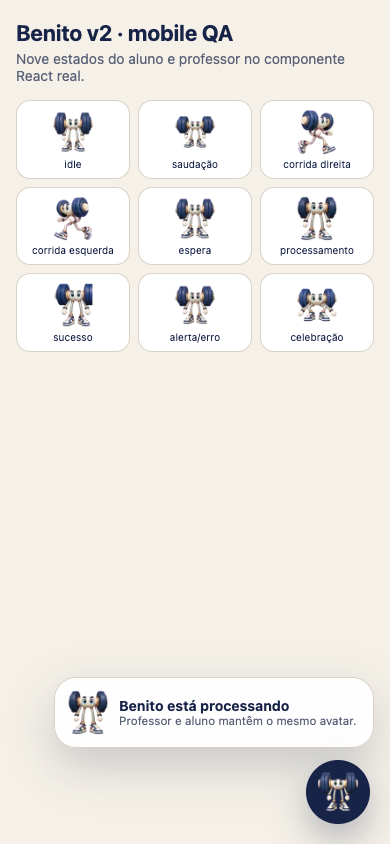
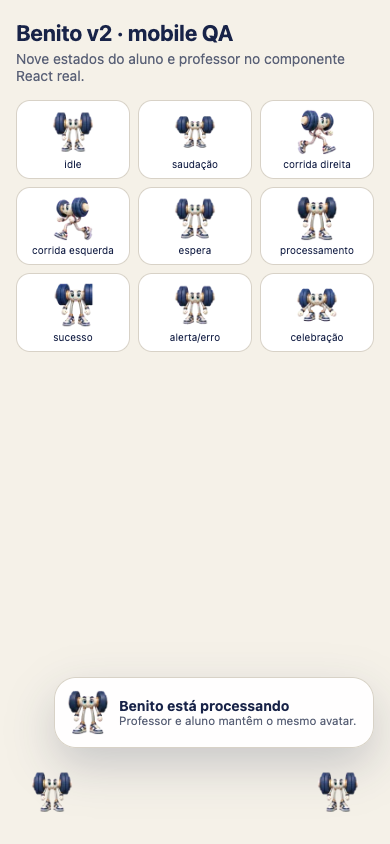
fix(benito): remove visible assistant chrome

Changed region(s): [[0.7692, 0.8934, 0.9538, 1.0], [0.0615, 0.8934, 0.1846, 0.9858]]

diff --git a/src/components/StudentBnitoAssistant.tsx b/src/components/StudentBnitoAssistant.tsx
@@ -436,6 +436,7 @@ export function StudentBnitoAssistantProvider({ children }: { children: ReactNod
             <TooltipTrigger asChild>
               <button
                 type="button"
+                data-benito-fab="student"
                 aria-label={`Abrir ${name}`}
                 style={{ transform: `translate(${bnitoDrag.x}px, ${bnitoDrag.y}px)`, touchAction: "none" }}
                 onPointerDown={(e) => {
@@ -494,11 +495,9 @@ export function StudentBnitoAssistantProvider({ children }: { children: ReactNod
                   setDragDirection(null);
                 }}
                 onLostPointerCapture={() => setDragDirection(null)}
-                className="fixed bottom-[calc(6rem+env(safe-area-inset-bottom,0px))] right-[calc(1.25rem+env(safe-area-inset-right,0px))] z-40 flex h-16 w-16 items-center justify-center rounded-full border border-white/70 bg-navy text-primary-foreground shadow-[0_18px_45px_rgba(29,45,92,0.32)] ring-8 ring-navy/10 transition-colors duration-200 hover:bg-navy/95 focus:outline-none focus:ring-4 focus:ring-ring focus:ring-offset-2 md:bottom-[calc(1.5rem+env(safe-area-inset-bottom,0px))] md:right-6 cursor-grab active:cursor-grabbing"
+                className="fixed bottom-[calc(6rem+env(safe-area-inset-bottom,0px))] right-[calc(1.25rem+env(safe-area-inset-right,0px))] z-40 flex h-16 w-16 cursor-grab items-center justify-center p-0 text-navy outline-none transition-transform duration-200 active:cursor-grabbing focus-visible:outline focus-visible:outline-2 focus-visible:outline-offset-4 focus-visible:outline-ring md:bottom-[calc(1.5rem+env(safe-area-inset-bottom,0px))] md:right-6"
               >
-                <span className="flex h-12 w-12 items-center justify-center rounded-full border border-white/45 bg-white/10">
-                  <BenitoSprite state={petState} size={42} alt="" />
-                </span>
+                <BenitoSprite state={petState} size={42} alt="" />
               </button>
             </TooltipTrigger>
             <TooltipContent side="left">{`Falar com o ${name}`}</TooltipContent>
@@ -507,7 +506,7 @@ export function StudentBnitoAssistantProvider({ children }: { children: ReactNod
           {!open && mission && !missionDismissed && (
             <div className="pointer-events-none fixed bottom-[calc(11rem+env(safe-area-inset-bottom,0px))] right-4 z-40 w-[min(20rem,calc(100vw-2rem))] rounded-[22px] border border-line bg-background/95 p-3 text-sm shadow-xl backdrop-blur [@media(max-height:740px)]:hidden md:bottom-24 md:right-6">
               <div className="flex items-start gap-2">
-                <div className="mt-0.5 flex h-8 w-8 shrink-0 items-center justify-center rounded-full bg-navy text-primary-foreground">
+                <div className="mt-0.5 flex h-8 w-8 shrink-0 items-center justify-center text-navy">
                   <BenitoSprite state={missionLoading ? "processing" : mission.urgency === "parar_e_avisar" ? "alert" : "waiting"} size={28} alt="" />
                 </div>
                 <div className="min-w-0 flex-1">
@@ -545,7 +544,7 @@ export function StudentBnitoAssistantProvider({ children }: { children: ReactNod
           <DialogContent className="flex max-h-[88dvh] w-[calc(100vw-1.5rem)] max-w-2xl flex-col gap-0 overflow-hidden rounded-[24px] border-line bg-paper p-0 shadow-2xl [&>button]:rounded-full">
             <DialogHeader className="shrink-0 border-b border-line bg-background px-5 py-4 text-left">
               <div className="flex items-start gap-3 pr-8">
-                <div className="flex h-12 w-12 shrink-0 items-center justify-center rounded-full bg-navy text-primary-foreground shadow-md">
+                <div className="flex h-12 w-12 shrink-0 items-center justify-center text-navy">
                   <BenitoSprite state={petState} size={42} alt="" />
                 </div>
                 <div className="min-w-0">

diff --git a/src/lib/benitoIntegration.test.ts b/src/lib/benitoIntegration.test.ts
@@ -6,6 +6,29 @@ import { describe, expect, it } from "vitest";
 const root = process.cwd();
 const readProjectFile = (path: string) => readFileSync(resolve(root, path), "utf8");
 
+function extractClassNameAfter(source: string, marker: string): string {
+  const start = source.indexOf(marker);
+  expect(start).toBeGreaterThanOrEqual(0);
+  const match = source.slice(start).match(/className="([^"]+)"/);
+  expect(match?.[1]).toBeTruthy();
+  return match?.[1] ?? "";
+}
+
+function restingChromeTokens(className: string): string[] {
+  return className
+    .split(/\s+/)
+    .filter(Boolean)
+    .filter((token) => !token.startsWith("focus-visible:"))
+    .filter((token) =>
+      token === "border"
+      || token.startsWith("border-")
+      || token === "rounded-full"
+      || token.startsWith("bg-")
+      || token.startsWith("ring-")
+      || token.startsWith("shadow"),
+    );
+}
+
 describe("Benito assistant integration", () => {
   it("uses the animated sprite in professor and student assistant avatars", () => {
     const professor = readProjectFile("src/components/BnitoFloatingAssistant.tsx");
@@ -19,6 +42,41 @@ describe("Benito assistant integration", () => {
     expect(student).not.toContain("<BrainCircuit");
     expect(student).toContain('requiresTeamHandoff || responseUrgency === "parar_e_avisar"');
     expect(student).toContain('mission && !missionDismissed && mission.urgency === "parar_e_avisar"');
+  });
+
+  it("keeps professor and student floating Benito buttons chromeless at rest", () => {
+    const professor = readProjectFile("src/components/BnitoFloatingAssistant.tsx");
+    const student = readProjectFile("src/components/StudentBnitoAssistant.tsx");
+    const professorFab = extractClassNameAfter(professor, 'data-benito-fab="professor"');
+    const studentFab = extractClassNameAfter(student, 'data-benito-fab="student"');
+
+    expect(professorFab).toContain("h-16 w-16");
+    expect(studentFab).toContain("h-16 w-16");
+    expect(restingChromeTokens(professorFab)).toEqual([]);
+    expect(restingChromeTokens(studentFab)).toEqual([]);
+    expect(professorFab).toContain("focus-visible:outline");
+    expect(studentFab).toContain("focus-visible:outline");
+    expect(professor).not.toContain('rounded-full border border-white/45 bg-white/10');
+    expect(student).not.toContain('rounded-full border border-white/45 bg-white/10');
+    expect(professor).not.toContain('rounded-full bg-navy text-primary-foreground shadow-md');
+    expect(student).not.toContain('rounded-full bg-navy text-primary-foreground shadow-md');
+    expect(student).not.toContain('rounded-full bg-navy text-primary-foreground">\n                  <BenitoSprite');
+  });
+
+  it("preserves floating Benito accessibility, drag behavior, and sprite fallback path", () => {
+    const professor = readProjectFile("src/components/BnitoFloatingAssistant.tsx");
+    const student = readProjectFile("src/components/StudentBnitoAssistant.tsx");
+    const sprite = readProjectFile("src/components/BenitoSprite.tsx");
+
+    expect(professor).toContain("aria-label={`Abrir ${name}`}");
+    expect(student).toContain("aria-label={`Abrir ${name}`}");
+    expect(professor).toContain("onPointerDown={startDrag}");
+    expect(professor).toContain('window.addEventListener("pointermove", handlePointerMove');
+    expect(student).toContain("setPointerCapture");
+    expect(student).toContain("onPointerMove");
+    expect(student).toContain("releasePointerCapture");
+    expect(sprite).toContain("data-benito-fallback");
+    expect(sprite).toContain("<BrainCircuit");
   });
 
   it("packages the same validated v2 atlas used by the React renderer", () => {

diff --git a/src/components/BnitoFloatingAssistant.tsx b/src/components/BnitoFloatingAssistant.tsx
@@ -173,6 +173,9 @@ export function BnitoContextButton({ label, context, question, className, text, 
   // White-label: troca "BNITO" literal (rótulo legado) pelo nome da empresa nos textos visíveis.
   const displayText = text ? text.replace(/BNITO/gi, name) : text;
   const displayLabel = label.replace(/BNITO/gi, name);
+  const buttonClassName = text
+    ? `h-8 rounded-full border border-navy/15 bg-background/80 px-3 text-xs text-navy shadow-sm hover:bg-navy hover:text-primary-foreground ${className || ""}`
+    : `h-8 w-8 p-0 text-navy hover:bg-transparent ${className || ""}`;
 
   return (
     <Tooltip>
@@ -181,7 +184,7 @@ export function BnitoContextButton({ label, context, question, className, text, 
           type="button"
           variant="ghost"
           size={text ? "sm" : "icon"}
-          className={`rounded-full border border-navy/15 bg-background/80 text-navy shadow-sm hover:bg-navy hover:text-primary-foreground ${text ? "h-8 px-3 text-xs" : "h-8 w-8"} ${className || ""}`}
+          className={buttonClassName}
           onClick={(event) => {
             event.preventDefault();
             event.stopPropagation();
@@ -420,6 +423,7 @@ export function BnitoAssistantProvider({ children }: { children: ReactNode }) {
             <TooltipTrigger asChild>
               <button
                 type="button"
+                data-benito-fab="professor"
                 aria-label={`Abrir ${name}`}
                 onPointerDown={startDrag}
                 onClick={() => {
@@ -431,11 +435,9 @@ export function BnitoAssistantProvider({ children }: { children: ReactNode }) {
                   openBnito();
                 }}
                 style={{ left: buttonPosition.x, top: buttonPosition.y, touchAction: "none" }}
-                className="fixed z-40 flex h-16 w-16 cursor-grab items-center justify-center rounded-full border border-white/60 bg-navy text-primary-foreground shadow-[0_18px_45px_rgba(29,45,92,0.32)] ring-8 ring-navy/10 transition duration-200 active:cursor-grabbing hover:bg-navy/95 focus:outline-none focus:ring-4 focus:ring-ring focus:ring-offset-2"
+                className="fixed z-40 flex h-16 w-16 cursor-grab items-center justify-center p-0 text-navy outline-none transition-transform duration-200 active:cursor-grabbing focus-visible:outline focus-visible:outline-2 focus-visible:outline-offset-4 focus-visible:outline-ring"
               >
-                <span className="flex h-12 w-12 items-center justify-center rounded-full border border-white/45 bg-white/10">
-                  <BenitoSprite state={petState} size={42} alt="" />
-                </span>
+                <BenitoSprite state={petState} size={42} alt="" />
               </button>
             </TooltipTrigger>
             <TooltipContent side="left">{`Abrir ${name}`}</TooltipContent>
@@ -444,7 +446,7 @@ export function BnitoAssistantProvider({ children }: { children: ReactNode }) {
           <DialogContent className="flex max-h-[88dvh] w-[calc(100vw-1.5rem)] max-w-2xl flex-col gap-0 overflow-hidden rounded-[24px] border-line bg-paper p-0 shadow-2xl [&>button]:rounded-full">
             <DialogHeader className="shrink-0 border-b border-line bg-background px-5 py-4 text-left">
           <div className="flex items-start gap-3 pr-8">
-            <div className="flex h-12 w-12 shrink-0 items-center justify-center rounded-full bg-navy text-primary-foreground shadow-md">
+            <div className="flex h-12 w-12 shrink-0 items-center justify-center text-navy">
               <BenitoSprite state={petState} size={42} alt="" />
             </div>
             <div className="min-w-0">

diff --git a/qa/benito-mobile-fixture.tsx b/qa/benito-mobile-fixture.tsx
@@ -36,7 +36,9 @@ function BenitoMobileFixture() {
         .assistant-copy { min-width: 0; }
         .assistant-copy strong, .assistant-copy small { display: block; }
         .assistant-copy small { color: #5a6177; }
-        .fab { position: fixed; right: 20px; bottom: 20px; width: 64px; height: 64px; display: grid; place-items: center; border: 0; border-radius: 50%; background: #182348; box-shadow: 0 16px 36px rgba(24,35,72,.3); }
+        .fab { position: fixed; bottom: 20px; width: 64px; height: 64px; display: grid; place-items: center; padding: 0; border: 0; background: transparent; box-shadow: none; color: #182348; }
+        .fab-professor { left: 20px; }
+        .fab-student { right: 20px; }
       `}</style>
       <main>
         <h1>Benito v2 · mobile QA</h1>
@@ -59,7 +61,10 @@ function BenitoMobileFixture() {
           </div>
         </div>
       </aside>
-      <button className="fab" aria-label="Abrir Benito">
+      <button className="fab fab-professor" data-role="professor" aria-label="Abrir Benito do professor">
+        <BenitoSprite state="idle" size={42} alt="" paused={paused} />
+      </button>
+      <button className="fab fab-student" data-role="student" aria-label="Abrir Benito do aluno">
         <BenitoSprite state="idle" size={42} alt="" paused={paused} />
       </button>
     </>

diff --git a/qa/benito-mobile.e2e.ts b/qa/benito-mobile.e2e.ts
@@ -10,9 +10,18 @@ test("Benito v2 remains legible in a 390x844 assistant layout", async ({ page })
   const cards = page.locator(".state");
   await expect(cards).toHaveCount(9);
   await expect(page.locator(".assistant")).toBeInViewport();
-  await expect(page.locator(".fab")).toBeInViewport();
+  const professorFab = page.locator('[data-role="professor"]');
+  const studentFab = page.locator('[data-role="student"]');
+  for (const fab of [professorFab, studentFab]) {
+    await expect(fab).toBeInViewport();
+    await expect(fab).toHaveCSS("width", "64px");
+    await expect(fab).toHaveCSS("height", "64px");
+    await expect(fab).toHaveCSS("background-color", "rgba(0, 0, 0, 0)");
+    await expect(fab).toHaveCSS("box-shadow", "none");
+    await expect(fab).toHaveCSS("border-top-width", "0px");
+  }
   expect(await page.evaluate(() => document.documentElement.scrollWidth)).toBeLessThanOrEqual(390);
-  await expect(page.locator("[data-benito-frame]")).toHaveCount(11);
+  await expect(page.locator("[data-benito-frame]")).toHaveCount(12);
 
   const spriteResources = await page.evaluate(() =>
     performance
